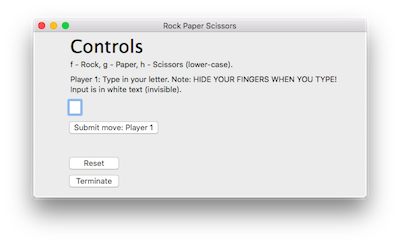
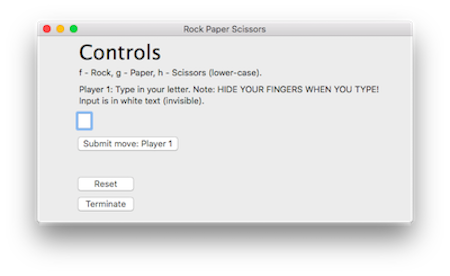
changed size of demo images

diff --git a/README.md b/README.md
@@ -40,8 +40,8 @@
 
 ## About The Project
 <p align="center">
-  <img src="images/demo_screenshot0.png" width="400" height="245">   <img src="images/demo_screenshot1.png" width="400" height="245">
-  <img src="images/demo_screenshot2.png" width="400" height="245">
+  <img src="images/demo_screenshot0.png" width="450" height="276">   <img src="images/demo_screenshot1.png" width="450" height="276">
+  <img src="images/demo_screenshot2.png" width="450" height="276">
 </p>
 
 
